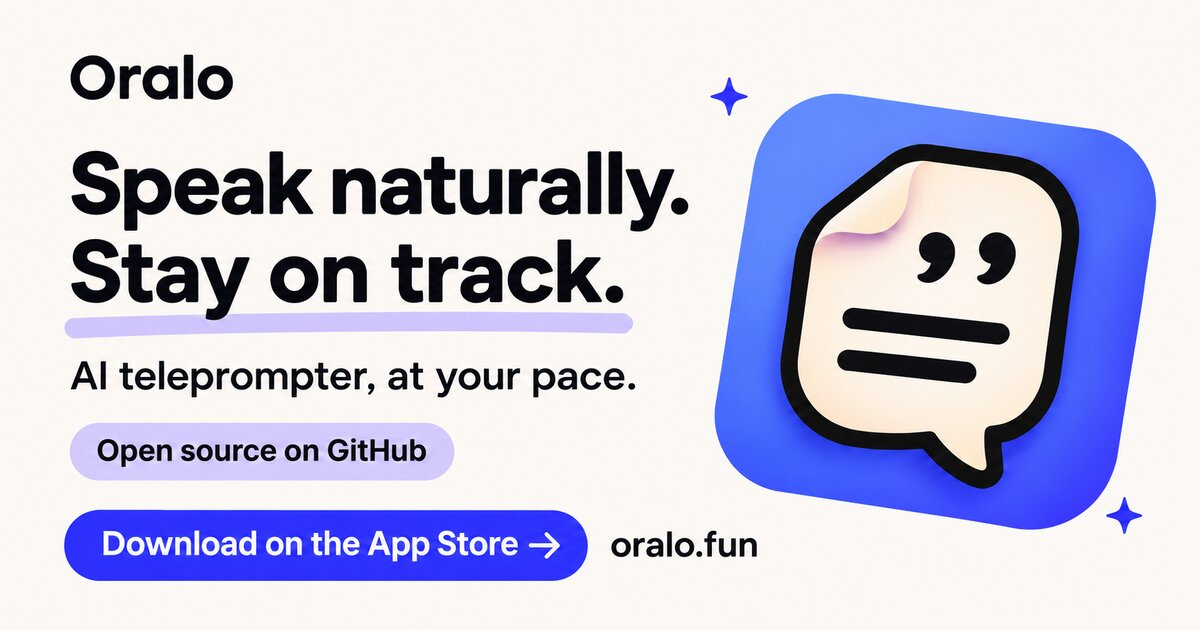
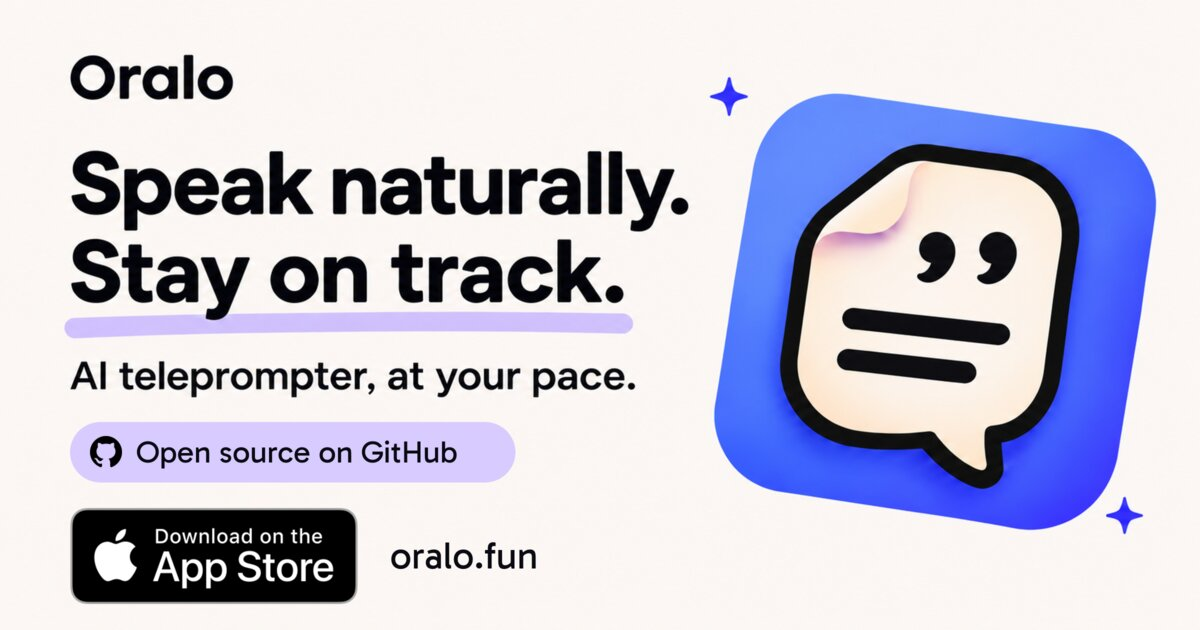
Use official App Store and GitHub artwork on social card

diff --git a/public/en/tools/speech-preview/index.html b/public/en/tools/speech-preview/index.html
@@ -13,10 +13,10 @@
   <meta property="og:type" content="website"><meta property="og:site_name" content="Oralo">
   <meta property="og:url" content="https://oralo.fun/en/tools/speech-preview/"><meta property="og:locale" content="en_US"><meta property="og:locale:alternate" content="zh_CN">
   <meta property="og:title" content="Speech Script Preview with Local Browser Voices · Oralo"><meta property="og:description" content="Paste a speech script, choose a browser-reported local voice, and preview wording at a relative speed. No sign-up or audio download. Voices depend on your device and browser.">
-  <meta property="og:image" content="https://oralo.fun/assets/oralo-social-v1.jpg?v=20261122-github"><meta property="og:image:secure_url" content="https://oralo.fun/assets/oralo-social-v1.jpg?v=20261122-github">
+  <meta property="og:image" content="https://oralo.fun/assets/oralo-social-v1.jpg?v=20261122-badges"><meta property="og:image:secure_url" content="https://oralo.fun/assets/oralo-social-v1.jpg?v=20261122-badges">
   <meta property="og:image:type" content="image/jpeg"><meta property="og:image:width" content="1200"><meta property="og:image:height" content="630"><meta property="og:image:alt" content="Oralo: Speak naturally. Stay on track. AI teleprompter, at your pace.">
   <meta name="twitter:card" content="summary_large_image"><meta name="twitter:title" content="Speech Script Preview with Local Browser Voices · Oralo"><meta name="twitter:description" content="Paste a speech script, choose a browser-reported local voice, and preview wording at a relative speed. No sign-up or audio download. Voices depend on your device and browser.">
-  <meta name="twitter:image" content="https://oralo.fun/assets/oralo-social-v1.jpg?v=20261122-github"><meta name="twitter:image:alt" content="Oralo: Speak naturally. Stay on track. AI teleprompter, at your pace.">
+  <meta name="twitter:image" content="https://oralo.fun/assets/oralo-social-v1.jpg?v=20261122-badges"><meta name="twitter:image:alt" content="Oralo: Speak naturally. Stay on track. AI teleprompter, at your pace.">
   <link rel="icon" type="image/png" sizes="48x48" href="/assets/favicon-48.png"><link rel="apple-touch-icon" sizes="180x180" href="/assets/apple-touch-icon.png">
   <link rel="stylesheet" href="/styles.css"><link rel="stylesheet" href="/tools/speech-length.css">
   <link rel="stylesheet" href="/tools/speech-preview.css"><script type="module" src="/tools/speech-preview.js"></script>

diff --git a/public/zh/tools/speech-preview/index.html b/public/zh/tools/speech-preview/index.html
@@ -13,10 +13,10 @@
   <meta property="og:type" content="website"><meta property="og:site_name" content="Oralo">
   <meta property="og:url" content="https://oralo.fun/zh/tools/speech-preview/"><meta property="og:locale" content="zh_CN"><meta property="og:locale:alternate" content="en_US">
   <meta property="og:title" content="演讲稿试听：用浏览器本地声音朗读 · Oralo"><meta property="og:description" content="粘贴演讲稿，选择浏览器报告为本地的声音和相对语速，试听句子与读法。无需登录，不提供音频下载；可用声音取决于设备和浏览器。">
-  <meta property="og:image" content="https://oralo.fun/assets/oralo-social-v1.jpg?v=20261122-github"><meta property="og:image:secure_url" content="https://oralo.fun/assets/oralo-social-v1.jpg?v=20261122-github">
+  <meta property="og:image" content="https://oralo.fun/assets/oralo-social-v1.jpg?v=20261122-badges"><meta property="og:image:secure_url" content="https://oralo.fun/assets/oralo-social-v1.jpg?v=20261122-badges">
   <meta property="og:image:type" content="image/jpeg"><meta property="og:image:width" content="1200"><meta property="og:image:height" content="630"><meta property="og:image:alt" content="Oralo AI 提词器：自然表达，跟随你的节奏。">
   <meta name="twitter:card" content="summary_large_image"><meta name="twitter:title" content="演讲稿试听：用浏览器本地声音朗读 · Oralo"><meta name="twitter:description" content="粘贴演讲稿，选择浏览器报告为本地的声音和相对语速，试听句子与读法。无需登录，不提供音频下载；可用声音取决于设备和浏览器。">
-  <meta name="twitter:image" content="https://oralo.fun/assets/oralo-social-v1.jpg?v=20261122-github"><meta name="twitter:image:alt" content="Oralo AI 提词器：自然表达，跟随你的节奏。">
+  <meta name="twitter:image" content="https://oralo.fun/assets/oralo-social-v1.jpg?v=20261122-badges"><meta name="twitter:image:alt" content="Oralo AI 提词器：自然表达，跟随你的节奏。">
   <link rel="icon" type="image/png" sizes="48x48" href="/assets/favicon-48.png"><link rel="apple-touch-icon" sizes="180x180" href="/assets/apple-touch-icon.png">
   <link rel="stylesheet" href="/styles.css"><link rel="stylesheet" href="/tools/speech-length.css">
   <link rel="stylesheet" href="/tools/speech-preview.css"><script type="module" src="/tools/speech-preview.js"></script>

diff --git a/public/en/floating-prompt/index.html b/public/en/floating-prompt/index.html
@@ -13,10 +13,10 @@
   <meta property="og:type" content="website"><meta property="og:site_name" content="Oralo">
   <meta property="og:url" content="https://oralo.fun/en/floating-prompt/"><meta property="og:locale" content="en_US"><meta property="og:locale:alternate" content="zh_CN">
   <meta property="og:title" content="How the floating prompt works — Oralo"><meta property="og:description" content="Keep your Oralo script in a Picture-in-Picture window on iPhone or iPad. Use fixed-pace scrolling, or start voice following in the app first. See what has been tested, where results can vary, and download Oralo.">
-  <meta property="og:image" content="https://oralo.fun/assets/oralo-social-v1.jpg?v=20261122-github"><meta property="og:image:secure_url" content="https://oralo.fun/assets/oralo-social-v1.jpg?v=20261122-github">
+  <meta property="og:image" content="https://oralo.fun/assets/oralo-social-v1.jpg?v=20261122-badges"><meta property="og:image:secure_url" content="https://oralo.fun/assets/oralo-social-v1.jpg?v=20261122-badges">
   <meta property="og:image:type" content="image/jpeg"><meta property="og:image:width" content="1200"><meta property="og:image:height" content="630"><meta property="og:image:alt" content="Oralo: Speak naturally. Stay on track. AI teleprompter, at your pace.">
   <meta name="twitter:card" content="summary_large_image"><meta name="twitter:title" content="How the floating prompt works — Oralo"><meta name="twitter:description" content="Keep your Oralo script in a Picture-in-Picture window on iPhone or iPad. Use fixed-pace scrolling, or start voice following in the app first. See what has been tested, where results can vary, and download Oralo.">
-  <meta name="twitter:image" content="https://oralo.fun/assets/oralo-social-v1.jpg?v=20261122-github"><meta name="twitter:image:alt" content="Oralo: Speak naturally. Stay on track. AI teleprompter, at your pace.">
+  <meta name="twitter:image" content="https://oralo.fun/assets/oralo-social-v1.jpg?v=20261122-badges"><meta name="twitter:image:alt" content="Oralo: Speak naturally. Stay on track. AI teleprompter, at your pace.">
   <link rel="icon" type="image/png" sizes="48x48" href="/assets/favicon-48.png"><link rel="apple-touch-icon" sizes="180x180" href="/assets/apple-touch-icon.png">
   <link rel="stylesheet" href="/styles.css"><link rel="stylesheet" href="/guides.css">
   <script src="/navigation.js" defer></script>

diff --git a/public/en/tools/speech-length/index.html b/public/en/tools/speech-length/index.html
@@ -13,10 +13,10 @@
   <meta property="og:type" content="website"><meta property="og:site_name" content="Oralo">
   <meta property="og:url" content="https://oralo.fun/en/tools/speech-length/"><meta property="og:locale" content="en_US"><meta property="og:locale:alternate" content="zh_CN">
   <meta property="og:title" content="Speech Length Estimator: Words to Minutes · Oralo"><meta property="og:description" content="Estimate speaking time for Chinese and English scripts, or turn minutes into a word budget. Free, no sign-up. Scripts stay in this page and are not uploaded or saved.">
-  <meta property="og:image" content="https://oralo.fun/assets/oralo-social-v1.jpg?v=20261122-github"><meta property="og:image:secure_url" content="https://oralo.fun/assets/oralo-social-v1.jpg?v=20261122-github">
+  <meta property="og:image" content="https://oralo.fun/assets/oralo-social-v1.jpg?v=20261122-badges"><meta property="og:image:secure_url" content="https://oralo.fun/assets/oralo-social-v1.jpg?v=20261122-badges">
   <meta property="og:image:type" content="image/jpeg"><meta property="og:image:width" content="1200"><meta property="og:image:height" content="630"><meta property="og:image:alt" content="Oralo: Speak naturally. Stay on track. AI teleprompter, at your pace.">
   <meta name="twitter:card" content="summary_large_image"><meta name="twitter:title" content="Speech Length Estimator: Words to Minutes · Oralo"><meta name="twitter:description" content="Estimate speaking time for Chinese and English scripts, or turn minutes into a word budget. Free, no sign-up. Scripts stay in this page and are not uploaded or saved.">
-  <meta name="twitter:image" content="https://oralo.fun/assets/oralo-social-v1.jpg?v=20261122-github"><meta name="twitter:image:alt" content="Oralo: Speak naturally. Stay on track. AI teleprompter, at your pace.">
+  <meta name="twitter:image" content="https://oralo.fun/assets/oralo-social-v1.jpg?v=20261122-badges"><meta name="twitter:image:alt" content="Oralo: Speak naturally. Stay on track. AI teleprompter, at your pace.">
   <link rel="icon" type="image/png" sizes="48x48" href="/assets/favicon-48.png"><link rel="apple-touch-icon" sizes="180x180" href="/assets/apple-touch-icon.png">
   <link rel="stylesheet" href="/styles.css"><link rel="stylesheet" href="/tools/speech-length.css">
   <script type="module" src="/tools/speech-tool.js"></script>

diff --git a/public/en/voice-following/index.html b/public/en/voice-following/index.html
@@ -13,10 +13,10 @@
   <meta property="og:type" content="website"><meta property="og:site_name" content="Oralo">
   <meta property="og:url" content="https://oralo.fun/en/voice-following/"><meta property="og:locale" content="en_US"><meta property="og:locale:alternate" content="zh_CN">
   <meta property="og:title" content="How voice following works — Oralo"><meta property="og:description" content="Oralo uses on-device speech recognition to follow your place in a script. It waits when you pause, and you can also choose a line yourself. See the limits, what works offline, and download Oralo.">
-  <meta property="og:image" content="https://oralo.fun/assets/oralo-social-v1.jpg?v=20261122-github"><meta property="og:image:secure_url" content="https://oralo.fun/assets/oralo-social-v1.jpg?v=20261122-github">
+  <meta property="og:image" content="https://oralo.fun/assets/oralo-social-v1.jpg?v=20261122-badges"><meta property="og:image:secure_url" content="https://oralo.fun/assets/oralo-social-v1.jpg?v=20261122-badges">
   <meta property="og:image:type" content="image/jpeg"><meta property="og:image:width" content="1200"><meta property="og:image:height" content="630"><meta property="og:image:alt" content="Oralo: Speak naturally. Stay on track. AI teleprompter, at your pace.">
   <meta name="twitter:card" content="summary_large_image"><meta name="twitter:title" content="How voice following works — Oralo"><meta name="twitter:description" content="Oralo uses on-device speech recognition to follow your place in a script. It waits when you pause, and you can also choose a line yourself. See the limits, what works offline, and download Oralo.">
-  <meta name="twitter:image" content="https://oralo.fun/assets/oralo-social-v1.jpg?v=20261122-github"><meta name="twitter:image:alt" content="Oralo: Speak naturally. Stay on track. AI teleprompter, at your pace.">
+  <meta name="twitter:image" content="https://oralo.fun/assets/oralo-social-v1.jpg?v=20261122-badges"><meta name="twitter:image:alt" content="Oralo: Speak naturally. Stay on track. AI teleprompter, at your pace.">
   <link rel="icon" type="image/png" sizes="48x48" href="/assets/favicon-48.png"><link rel="apple-touch-icon" sizes="180x180" href="/assets/apple-touch-icon.png">
   <link rel="stylesheet" href="/styles.css"><link rel="stylesheet" href="/guides.css">
   <script src="/navigation.js" defer></script>

diff --git a/public/zh/tools/speech-length/index.html b/public/zh/tools/speech-length/index.html
@@ -13,10 +13,10 @@
   <meta property="og:type" content="website"><meta property="og:site_name" content="Oralo">
   <meta property="og:url" content="https://oralo.fun/zh/tools/speech-length/"><meta property="og:locale" content="zh_CN"><meta property="og:locale:alternate" content="en_US">
   <meta property="og:title" content="演讲时长估算器：字数与分钟换算 · Oralo"><meta property="og:description" content="粘贴中英文讲稿，按可调语速估算时长；或输入分钟数反算备稿字数。免费、无需登录，讲稿仅在当前页面计算，不上传、不保存。">
-  <meta property="og:image" content="https://oralo.fun/assets/oralo-social-v1.jpg?v=20261122-github"><meta property="og:image:secure_url" content="https://oralo.fun/assets/oralo-social-v1.jpg?v=20261122-github">
+  <meta property="og:image" content="https://oralo.fun/assets/oralo-social-v1.jpg?v=20261122-badges"><meta property="og:image:secure_url" content="https://oralo.fun/assets/oralo-social-v1.jpg?v=20261122-badges">
   <meta property="og:image:type" content="image/jpeg"><meta property="og:image:width" content="1200"><meta property="og:image:height" content="630"><meta property="og:image:alt" content="Oralo AI 提词器：自然表达，跟随你的节奏。">
   <meta name="twitter:card" content="summary_large_image"><meta name="twitter:title" content="演讲时长估算器：字数与分钟换算 · Oralo"><meta name="twitter:description" content="粘贴中英文讲稿，按可调语速估算时长；或输入分钟数反算备稿字数。免费、无需登录，讲稿仅在当前页面计算，不上传、不保存。">
-  <meta name="twitter:image" content="https://oralo.fun/assets/oralo-social-v1.jpg?v=20261122-github"><meta name="twitter:image:alt" content="Oralo AI 提词器：自然表达，跟随你的节奏。">
+  <meta name="twitter:image" content="https://oralo.fun/assets/oralo-social-v1.jpg?v=20261122-badges"><meta name="twitter:image:alt" content="Oralo AI 提词器：自然表达，跟随你的节奏。">
   <link rel="icon" type="image/png" sizes="48x48" href="/assets/favicon-48.png"><link rel="apple-touch-icon" sizes="180x180" href="/assets/apple-touch-icon.png">
   <link rel="stylesheet" href="/styles.css"><link rel="stylesheet" href="/tools/speech-length.css">
   <script type="module" src="/tools/speech-tool.js"></script>

diff --git a/public/zh/floating-prompt/index.html b/public/zh/floating-prompt/index.html
@@ -13,10 +13,10 @@
   <meta property="og:type" content="website"><meta property="og:site_name" content="Oralo">
   <meta property="og:url" content="https://oralo.fun/zh/floating-prompt/"><meta property="og:locale" content="zh_CN"><meta property="og:locale:alternate" content="en_US">
   <meta property="og:title" content="小窗提词如何使用 — Oralo"><meta property="og:description" content="把 Oralo 讲稿放进 iPhone 或 iPad 的画中画小窗。可定速滚动，或先在 App 内启动语音跟随。了解已测试范围与限制，并下载 Oralo。">
-  <meta property="og:image" content="https://oralo.fun/assets/oralo-social-v1.jpg?v=20261122-github"><meta property="og:image:secure_url" content="https://oralo.fun/assets/oralo-social-v1.jpg?v=20261122-github">
+  <meta property="og:image" content="https://oralo.fun/assets/oralo-social-v1.jpg?v=20261122-badges"><meta property="og:image:secure_url" content="https://oralo.fun/assets/oralo-social-v1.jpg?v=20261122-badges">
   <meta property="og:image:type" content="image/jpeg"><meta property="og:image:width" content="1200"><meta property="og:image:height" content="630"><meta property="og:image:alt" content="Oralo AI 提词器：自然表达，跟随你的节奏。">
   <meta name="twitter:card" content="summary_large_image"><meta name="twitter:title" content="小窗提词如何使用 — Oralo"><meta name="twitter:description" content="把 Oralo 讲稿放进 iPhone 或 iPad 的画中画小窗。可定速滚动，或先在 App 内启动语音跟随。了解已测试范围与限制，并下载 Oralo。">
-  <meta name="twitter:image" content="https://oralo.fun/assets/oralo-social-v1.jpg?v=20261122-github"><meta name="twitter:image:alt" content="Oralo AI 提词器：自然表达，跟随你的节奏。">
+  <meta name="twitter:image" content="https://oralo.fun/assets/oralo-social-v1.jpg?v=20261122-badges"><meta name="twitter:image:alt" content="Oralo AI 提词器：自然表达，跟随你的节奏。">
   <link rel="icon" type="image/png" sizes="48x48" href="/assets/favicon-48.png"><link rel="apple-touch-icon" sizes="180x180" href="/assets/apple-touch-icon.png">
   <link rel="stylesheet" href="/styles.css"><link rel="stylesheet" href="/guides.css">
   <script src="/navigation.js" defer></script>

diff --git a/public/zh/voice-following/index.html b/public/zh/voice-following/index.html
@@ -13,10 +13,10 @@
   <meta property="og:type" content="website"><meta property="og:site_name" content="Oralo">
   <meta property="og:url" content="https://oralo.fun/zh/voice-following/"><meta property="og:locale" content="zh_CN"><meta property="og:locale:alternate" content="en_US">
   <meta property="og:title" content="语音跟随如何工作 — Oralo"><meta property="og:description" content="Oralo 用设备端语音识别对照讲稿，跟随你讲到的位置。停顿会等待，也可以手动选句。了解限制、离线范围，并下载 Oralo。">
-  <meta property="og:image" content="https://oralo.fun/assets/oralo-social-v1.jpg?v=20261122-github"><meta property="og:image:secure_url" content="https://oralo.fun/assets/oralo-social-v1.jpg?v=20261122-github">
+  <meta property="og:image" content="https://oralo.fun/assets/oralo-social-v1.jpg?v=20261122-badges"><meta property="og:image:secure_url" content="https://oralo.fun/assets/oralo-social-v1.jpg?v=20261122-badges">
   <meta property="og:image:type" content="image/jpeg"><meta property="og:image:width" content="1200"><meta property="og:image:height" content="630"><meta property="og:image:alt" content="Oralo AI 提词器：自然表达，跟随你的节奏。">
   <meta name="twitter:card" content="summary_large_image"><meta name="twitter:title" content="语音跟随如何工作 — Oralo"><meta name="twitter:description" content="Oralo 用设备端语音识别对照讲稿，跟随你讲到的位置。停顿会等待，也可以手动选句。了解限制、离线范围，并下载 Oralo。">
-  <meta name="twitter:image" content="https://oralo.fun/assets/oralo-social-v1.jpg?v=20261122-github"><meta name="twitter:image:alt" content="Oralo AI 提词器：自然表达，跟随你的节奏。">
+  <meta name="twitter:image" content="https://oralo.fun/assets/oralo-social-v1.jpg?v=20261122-badges"><meta name="twitter:image:alt" content="Oralo AI 提词器：自然表达，跟随你的节奏。">
   <link rel="icon" type="image/png" sizes="48x48" href="/assets/favicon-48.png"><link rel="apple-touch-icon" sizes="180x180" href="/assets/apple-touch-icon.png">
   <link rel="stylesheet" href="/styles.css"><link rel="stylesheet" href="/guides.css">
   <script src="/navigation.js" defer></script>

diff --git a/public/en/index.html b/public/en/index.html
@@ -13,10 +13,10 @@
   <meta property="og:type" content="website"><meta property="og:site_name" content="Oralo">
   <meta property="og:url" content="https://oralo.fun/en/"><meta property="og:locale" content="en_US"><meta property="og:locale:alternate" content="zh_CN">
   <meta property="og:title" content="Oralo — AI Teleprompter, at Your Pace"><meta property="og:description" content="Oralo is an AI teleprompter for iPhone and iPad. Follow your voice, keep a floating script in view, and add pronunciation hints. Available on the App Store.">
-  <meta property="og:image" content="https://oralo.fun/assets/oralo-social-v1.jpg?v=20261122-github"><meta property="og:image:secure_url" content="https://oralo.fun/assets/oralo-social-v1.jpg?v=20261122-github">
+  <meta property="og:image" content="https://oralo.fun/assets/oralo-social-v1.jpg?v=20261122-badges"><meta property="og:image:secure_url" content="https://oralo.fun/assets/oralo-social-v1.jpg?v=20261122-badges">
   <meta property="og:image:type" content="image/jpeg"><meta property="og:image:width" content="1200"><meta property="og:image:height" content="630"><meta property="og:image:alt" content="Oralo: Speak naturally. Stay on track. AI teleprompter, at your pace.">
   <meta name="twitter:card" content="summary_large_image"><meta name="twitter:title" content="Oralo — AI Teleprompter, at Your Pace"><meta name="twitter:description" content="Oralo is an AI teleprompter for iPhone and iPad. Follow your voice, keep a floating script in view, and add pronunciation hints. Available on the App Store.">
-  <meta name="twitter:image" content="https://oralo.fun/assets/oralo-social-v1.jpg?v=20261122-github"><meta name="twitter:image:alt" content="Oralo: Speak naturally. Stay on track. AI teleprompter, at your pace.">
+  <meta name="twitter:image" content="https://oralo.fun/assets/oralo-social-v1.jpg?v=20261122-badges"><meta name="twitter:image:alt" content="Oralo: Speak naturally. Stay on track. AI teleprompter, at your pace.">
   <link rel="icon" type="image/png" sizes="48x48" href="/assets/favicon-48.png"><link rel="apple-touch-icon" sizes="180x180" href="/assets/apple-touch-icon.png">
   <link rel="stylesheet" href="/styles.css">
   <script src="/navigation.js" defer></script>

diff --git a/public/zh/index.html b/public/zh/index.html
@@ -13,10 +13,10 @@
   <meta property="og:type" content="website"><meta property="og:site_name" content="Oralo">
   <meta property="og:url" content="https://oralo.fun/zh/"><meta property="og:locale" content="zh_CN"><meta property="og:locale:alternate" content="en_US">
   <meta property="og:title" content="Oralo — 跟着你节奏走的 AI 提词器"><meta property="og:description" content="Oralo 是适用于 iPhone 与 iPad 的 AI 提词器，提供语音跟随、小窗提词和读音提示。现已在 App Store 上架，按自己的节奏自然表达。">
-  <meta property="og:image" content="https://oralo.fun/assets/oralo-social-v1.jpg?v=20261122-github"><meta property="og:image:secure_url" content="https://oralo.fun/assets/oralo-social-v1.jpg?v=20261122-github">
+  <meta property="og:image" content="https://oralo.fun/assets/oralo-social-v1.jpg?v=20261122-badges"><meta property="og:image:secure_url" content="https://oralo.fun/assets/oralo-social-v1.jpg?v=20261122-badges">
   <meta property="og:image:type" content="image/jpeg"><meta property="og:image:width" content="1200"><meta property="og:image:height" content="630"><meta property="og:image:alt" content="Oralo AI 提词器：自然表达，跟随你的节奏。">
   <meta name="twitter:card" content="summary_large_image"><meta name="twitter:title" content="Oralo — 跟着你节奏走的 AI 提词器"><meta name="twitter:description" content="Oralo 是适用于 iPhone 与 iPad 的 AI 提词器，提供语音跟随、小窗提词和读音提示。现已在 App Store 上架，按自己的节奏自然表达。">
-  <meta name="twitter:image" content="https://oralo.fun/assets/oralo-social-v1.jpg?v=20261122-github"><meta name="twitter:image:alt" content="Oralo AI 提词器：自然表达，跟随你的节奏。">
+  <meta name="twitter:image" content="https://oralo.fun/assets/oralo-social-v1.jpg?v=20261122-badges"><meta name="twitter:image:alt" content="Oralo AI 提词器：自然表达，跟随你的节奏。">
   <link rel="icon" type="image/png" sizes="48x48" href="/assets/favicon-48.png"><link rel="apple-touch-icon" sizes="180x180" href="/assets/apple-touch-icon.png">
   <link rel="stylesheet" href="/styles.css">
   <script src="/navigation.js" defer></script>
